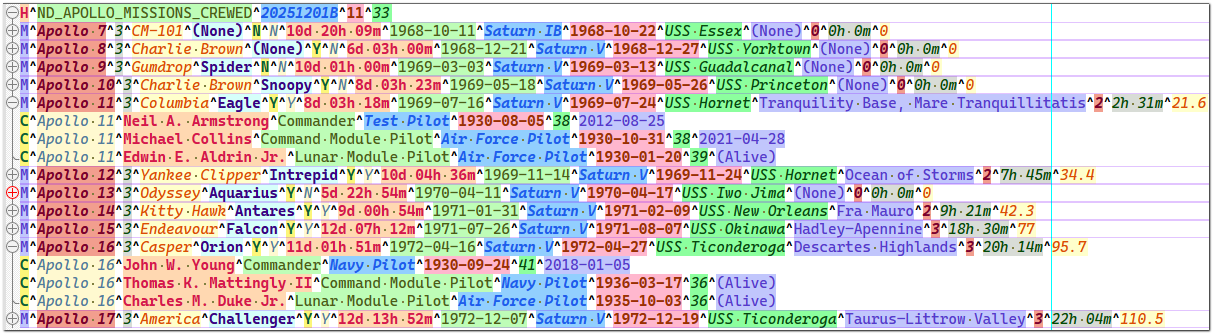
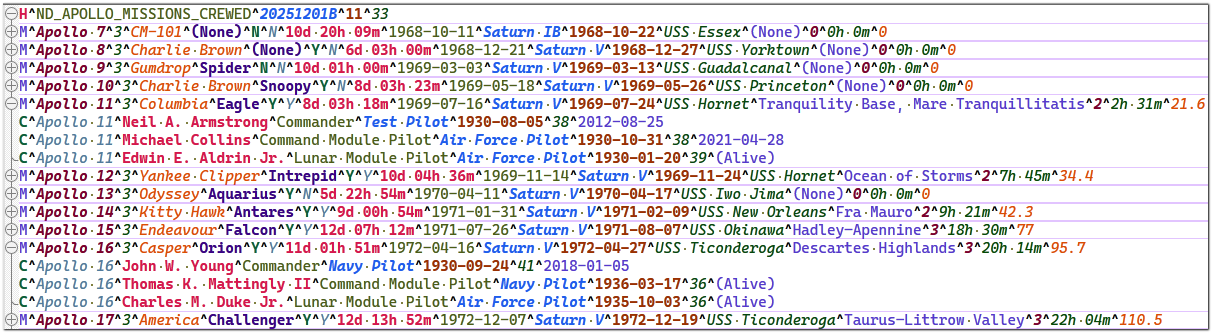
1.1.0.1 Release

diff --git a/README.md b/README.md
@@ -9,7 +9,7 @@
 ![GitHub issues](https://img.shields.io/github/issues/shriprem/NestedDSV)
 
 ## NestedDSV Data Visualizer plugin for Notepad++
-[Current Version: 1.1.0.0](https://github.com/shriprem/NestedDSV/blob/main/VersionHistory.md)
+[Current Version: 1.1.0.1](https://github.com/shriprem/NestedDSV/blob/main/VersionHistory.md)
 
 ![image](https://raw.githubusercontent.com/shriprem/NestedDSV/main/images/foldable_apollo_pipe.png)
 **Apollo Missions (Pipe) Sample File, with folding applied.**
@@ -38,7 +38,7 @@ NestedDSV's [File Type Metadata Editor](https://github.com/shriprem/NestedDSV/bl
 * [Menu Items with Keyboard Shortcuts](https://github.com/shriprem/NestedDSV/blob/main/docs/menu_shortcuts.md) for quick and easy access of frequently used actions.
 
 * [Sample Data files](#sample-nesteddsv-data-files) in the plugin package demonstrating:
-   * Various delimiters
+   * [Various delimiters](https://github.com/shriprem/NestedDSV/blob/main/docs/file_type_config_dialog.md#delimiter-choices)
    * [Foldable Record Blocks](https://github.com/shriprem/NestedDSV/blob/main/docs/foldable_record_blocks.md)
 
 ### Features beyond the Panel
@@ -98,7 +98,7 @@ The sample data files can be accessed by clicking on the _View Sample Files_ ico
 
 Here is a peek at some of the sample files:
 
-### Apollo Missions (Caret delimiter)
+### Apollo Missions (Caret delimiter; default back color)
 
 ![Apollo Missions (Caret)](https://raw.githubusercontent.com/shriprem/NestedDSV/main/images/foldable_apollo_caret.png)
 
@@ -106,7 +106,7 @@ Here is a peek at some of the sample files:
 
 ![Planets and Moons Sampler (Unit Separator)](https://raw.githubusercontent.com/shriprem/NestedDSV/main/images/foldable_planets_us.png)
 
-### Geological Regions Sampler (Double Colon delimiter)
+### Geological Regions Sampler (Double Colon delimiter; default back color)
 
 ![Geological Regions Sampler (Double Colon)](https://raw.githubusercontent.com/shriprem/NestedDSV/main/images/foldable_regions_dcolon.png)
 
@@ -127,5 +127,16 @@ Here is a peek at some of the sample files:
 * Several of the icons used in this plugin are the originals or derivatives of the [*Fugue Icons*](https://p.yusukekamiyamane.com) designed by **Yusuke Kamiyamane**.
 
 * All screen clippings in this repository were made using [FastStone Capture](https://www.faststone.org/FSCaptureDetail.htm). Small-size application with awesome features!
+
+## See Also
+While NestedDSV is meant for Nested DSV data files, [FWDataViz](https://github.com/shriprem/FWDataViz) is for fixed-width data files. The two plugins have similar interfaces with minimal changes. See: [Nested DSV Primer](https://github.com/shriprem/NestedDSV/blob/main/docs/nested_dsv_primer.md)
+
+* NestedDSV has a slightly simpler [File Type Metadata Editor](https://github.com/shriprem/NestedDSV/blob/main/docs/file_type_config_dialog.md) compared to the one in [FWDataViz](https://github.com/shriprem/FWDataViz/blob/master/docs/file_type_config_dialog.md).
+
+* The [sample files](https://github.com/shriprem/NestedDSV?tab=readme-ov-file#sample-nesteddsv-data-files) packaged with NestedDSV are also simpler and much more interesting.
+
+Due to their similarities and minor differences, reviewing the documentation and sample files of both these plugins may benefit some users by reinforcing the underlying concepts.
+
+---
 
 <a href='https://ko-fi.com/S6S417WICS' target='_blank'><img height='36' style='border:0px;height:36px;' src='https://storage.ko-fi.com/cdn/kofi5.png?v=6' border='0' alt='Buy Me a Coffee at ko-fi.com' /></a>

diff --git a/VersionHistory.md b/VersionHistory.md
@@ -1,6 +1,16 @@
 ## Version History
 
+### Version 1.1.0.1 [December 13, 2025]
+
+Packaging Sample Files that were hastily omitted in the initial release.
+
+**Release:** [1.1.0.1 Release](https://github.com/shriprem/NestedDSV/releases/tag/v1.1.0.1)
+
+---
+
 ### Version 1.1.0.0 [December 9, 2025]
 
 Initial Release
+
+**Release:** [1.1.0.0 Release](https://github.com/shriprem/NestedDSV/releases/tag/v1.1.0.0)
 
